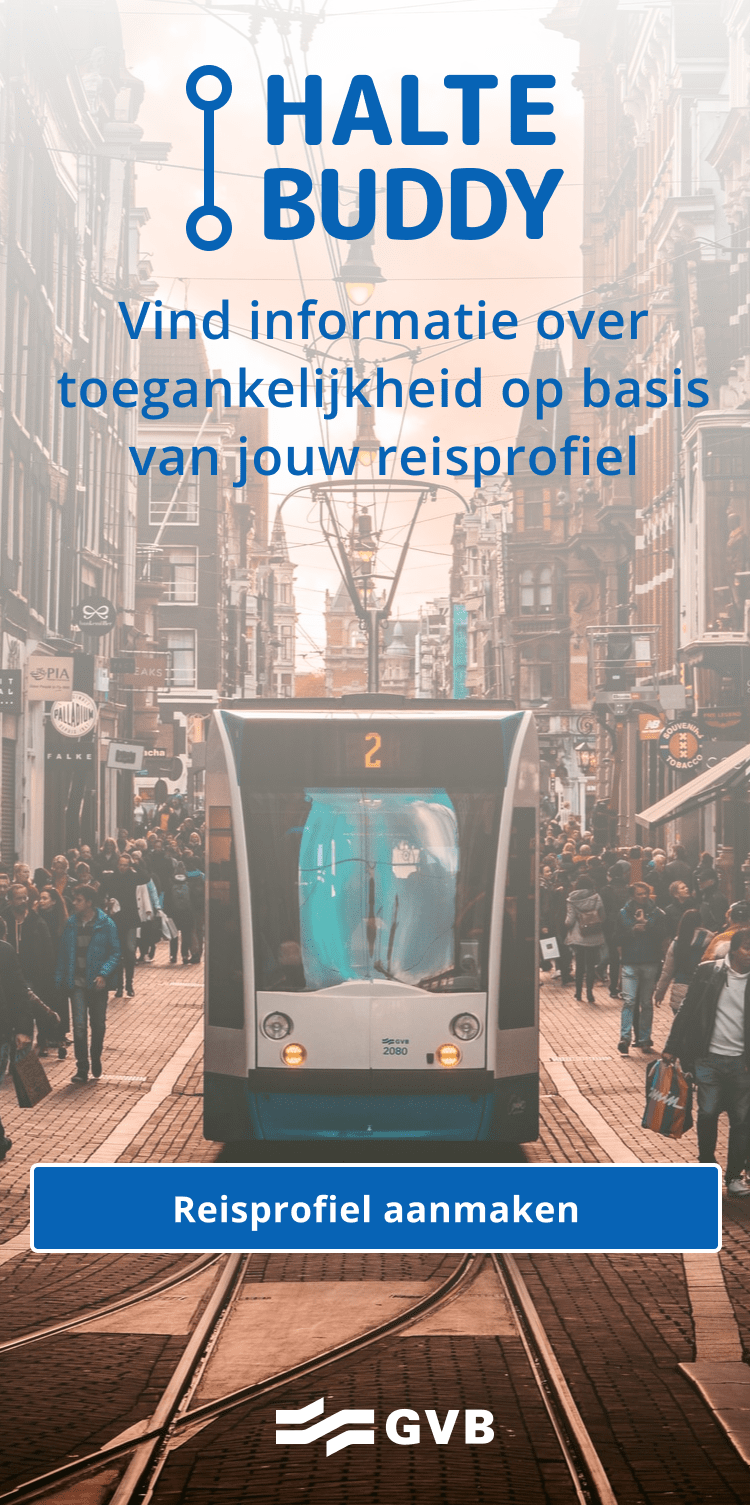
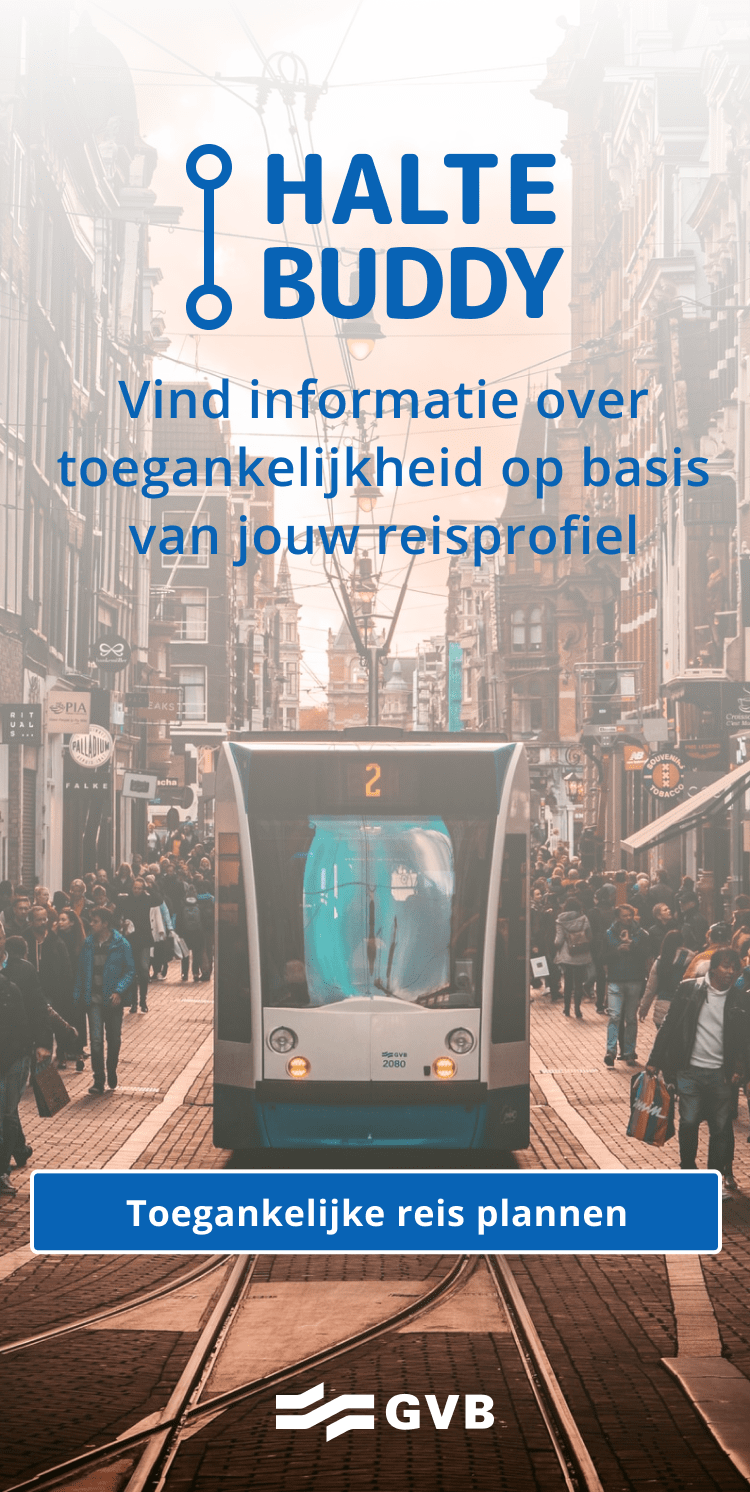
feedback landingpage Heike

diff --git a/src/views/LandingPage.vue b/src/views/LandingPage.vue
@@ -11,9 +11,14 @@
           </p> -->
           <p class="mb-16">
             Met Haltebuddy weet je precies welke haltes er
-            <strong>voor jou</strong> toegankelijk zijn. Vul je reisprofiel in,
-            en zie precies waar je op moet letten voordat je de bus, tram, of
-            metro in stapt!
+            <strong>voor jou</strong> toegankelijk zijn. Vul je wensen voor
+            toegankelijkheid in, en zie waar je op moet letten voordat je de
+            bus, tram, of metro in stapt.
+          </p>
+          <p>
+            Ook kun je via de app het OV-personeel laten weten dat je er aan
+            komt en bijvoorbeeld extra hulp of tijd nodig hebt bij het
+            instappen.
           </p>
           <p v-if="$vuetify.breakpoint.xsOnly" class="white--text">
             Bekijk <a href="/">de demo</a>.
@@ -41,15 +46,21 @@
             />
           </p>
           <p>
-            Haltebuddy is een prototype van het focusteam van het innovatieteam
-            van de gemeente Amsterdam, in samenwerking met de VRA en de GVB.
+            Haltebuddy is een prototype van het focusteam van het CTO
+            innovatieteam van de gemeente Amsterdam, in samenwerking met de
+            Vervoerregio Amsterdam (VRA) en de GVB.
           </p>
           <p>
-            We hebben Haltebuddy ontwikkeld om aan te tonen dat reisadvies voor
-            mensen met een beperking persoonlijker kan. Dit doen we door een
-            reisprofiel te koppelen aan de informatie in het Centraal
-            Haltebestand. Het experiment Haltebuddy is onderdeel van het
-            uitvoeringsprogramma inclusieve mobiliteit.
+            We hebben Haltebuddy ontwikkeld met als doel reizen met het OV
+            (mentaal) toegankelijker te maken. We tonen met het prototype aan
+            dat reisadvies voor mensen met een beperking persoonlijker kan. Dit
+            doen we door een reisprofiel te koppelen aan de informatie in het
+            Centraal Haltebestand. Ook introduceren we het idee van een digitale
+            Halteknop om instappen gemakkelijker en minder stressvol te maken.
+          </p>
+          <p>
+            Het experiment Haltebuddy is onderdeel van het uitvoeringsprogramma
+            inclusieve mobiliteit van de VRA.
           </p>
         </div>
         <div class="mt-16">
